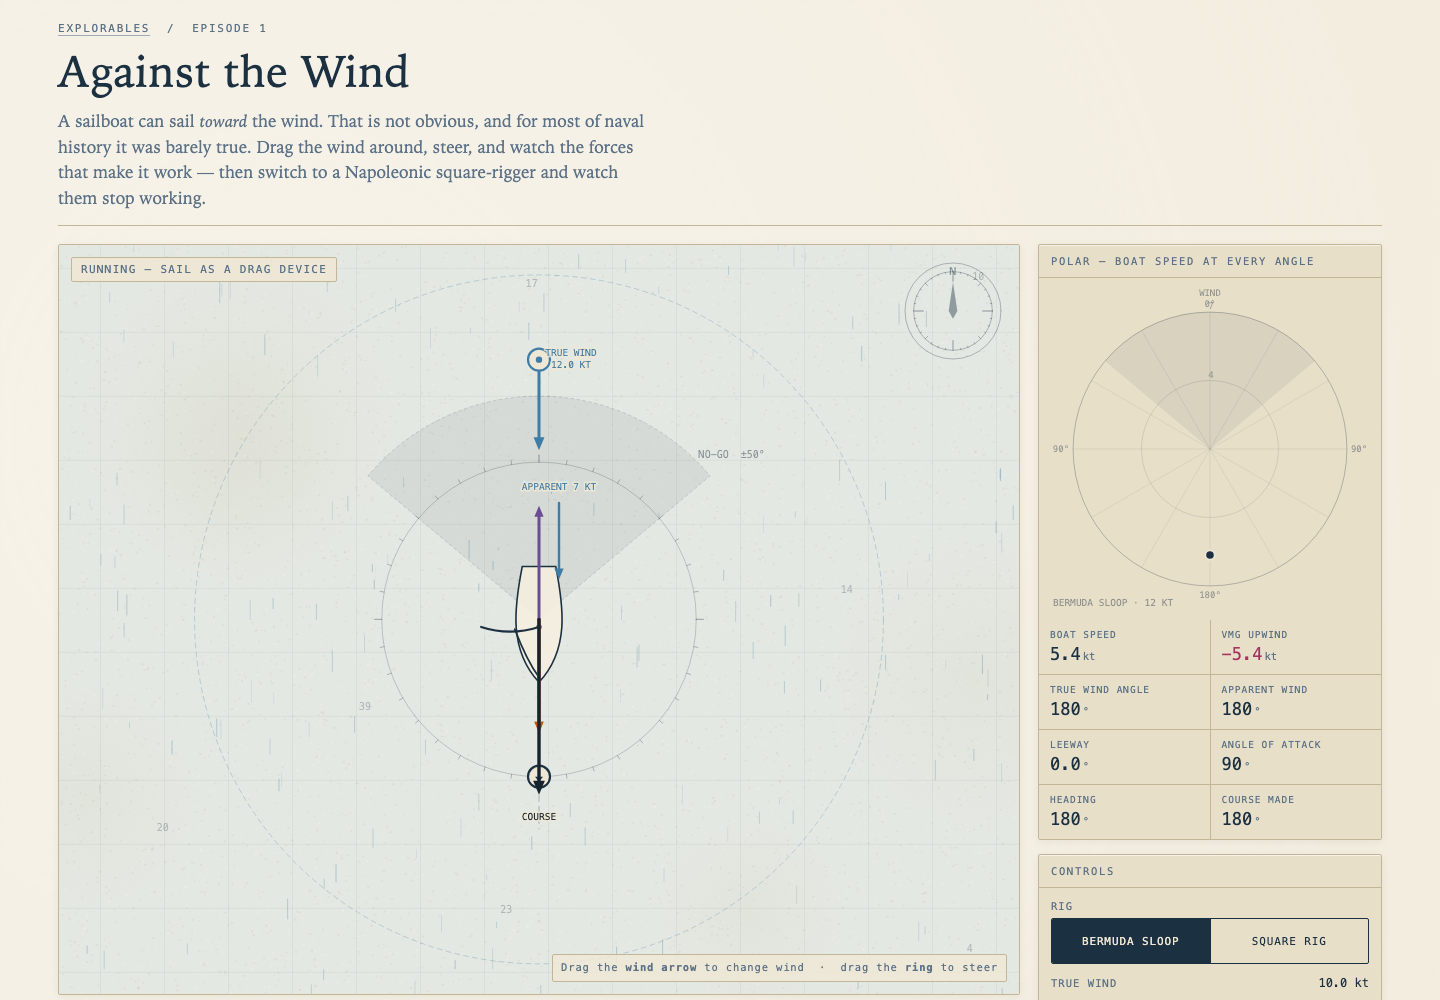
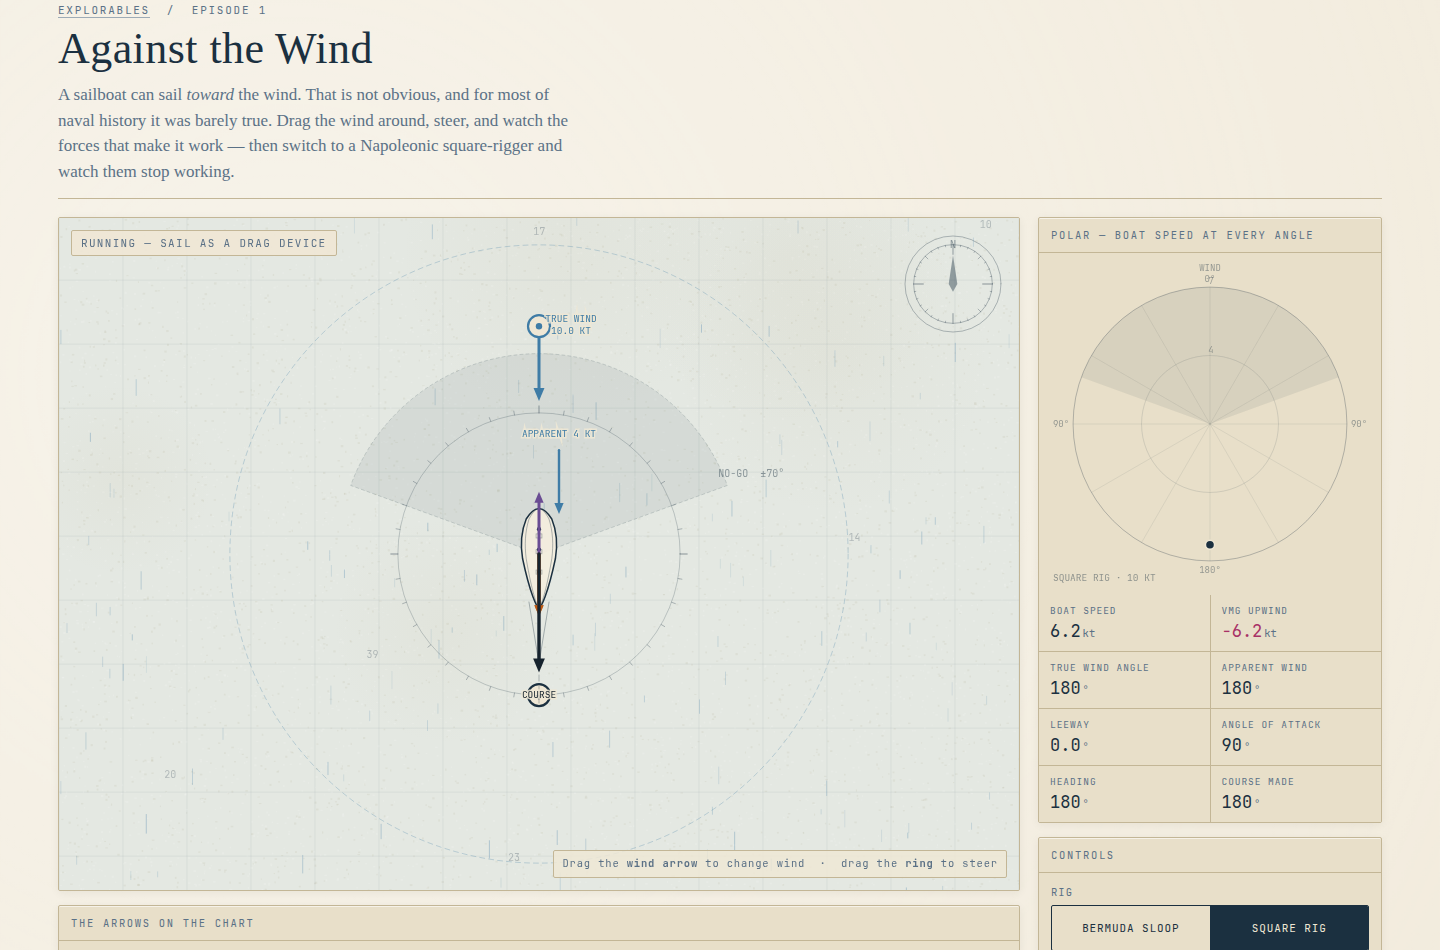
qa: record the 2026-10-18 pass for the frigate hull
Re-shot the three viewports, including the square-rig polar, and note
that stall and luffing now show on the course yards and the state tag.

diff --git a/against-the-wind/qa/README.md b/against-the-wind/qa/README.md
@@ -3,19 +3,42 @@
 Run: `node qa.mjs --shots` (needs Playwright; serve the repo root first, e.g.
 `python3 -m http.server 8777`).
 
-## Last recorded pass — 2026-07-11
+## Episode-specific checks
+
+- Drag the wind.
+- Steer through the no-go zone and confirm in irons. A boat carries her way; wait until she has actually stopped.
+- Toggle the rig and confirm the no-go zone visibly widens.
+- Trace the polar.
+- Turn off auto-trim and stall the sail deliberately.
+- Luff the sail and confirm it is still signalled.
+
+Degeneracies: zero wind, heading spun rapidly, wind slammed between extremes, parameters changed mid-sweep. Nothing may NaN.
+
+Assert the picture in world coordinates, on both tacks. On the square rig the bowsprit is the bow: it points at the heading, and the round end is the stern.
+
+## Last recorded pass — 2026-10-18
+
+`node qa.mjs --shots` against `http://localhost:8777/against-the-wind/`. Exit 0.
 
 | Check | Result |
 |---|---|
-| Self-test (`?selftest=1`) | **19 / 19 assertions green** |
-| Console + page errors | **none**, at every viewport, through every interaction |
-| Viewports | 390 (phone), 768 (tablet), 1440 (desktop) — no horizontal overflow, no clipping |
-| Touch targets | all controls ≥ 44 px |
-| Every control | wind drag, steer through the no-go zone, rig toggle, trace polar, manual-trim stall |
-| Degeneracies | zero wind · heading spun 240× · wind slammed 0.5↔30 kt · parameters changed mid-sweep — **no NaN** |
-| In irons | head to wind → **0.000 kt**, state reports "In irons" |
-| Over-sheet stall | beam reach 3.51 kt → 2.60 kt over-sheeted, state reports "Stalled — ease the sheet" |
-| Running downwind | 5.42 kt, boom out at 90°, state "Running — sail as a drag device" |
+| Self-test (`?selftest=1`) | **Pass.** 19 / 19, including A18 (24 wind/heading combinations, both tacks, world coordinates) |
+| Console + page errors | **Pass.** none, at every viewport, through every interaction |
+| Viewports | **Pass.** phone 390×844, tablet 768×1024, desktop 1440×950. No horizontal overflow |
+| Touch targets | **Pass.** harness flagged nothing under 24 px; buttons and sliders are drawn at 44 px |
+| Wind drag | **Pass.** handle dragged from north to east; wind went to 90° at 30 kt |
+| Rig toggle + polar | **Pass.** square rig traced at all three viewports (`*-square-traced.png`). No-go widened to ±69° |
+| In irons | **Pass.** head to wind → 0.000 kt, state "In irons" |
+| Over-sheet stall | **Pass.** beam reach 3.51 kt → 2.60 kt, state "Stalled — ease the sheet" |
+| Luffing | **Pass.** tag "Luffing — sheet in" held across two frames; the course yards fluttered (magenta centroid shifted about 11 px) |
+| Running downwind | **Pass.** A16: square rig δ = 90° at 6.18 kt. State "Running — sail as a drag device" |
+| Degeneracies | **Pass.** zero wind, heading spun 240×, wind slammed 0.5↔30 kt, parameters changed mid-sweep. No NaN |
+| Bow forward, both tacks | **Pass.** wind from north, headings 40° and 320°. Bowsprit extent forward of centre 153 px, stern 45 px aft, tip within 2 px of the centreline |
+
+The frigate redraw replaced the curved sail belly with straight yards. A luffing sail no longer eases its camber into a curve. What still signals:
+
+- **Stall.** The alarm tag, and the course yard on each mast turns magenta. The topsail yards stay ink.
+- **Luffing.** The alarm tag "Luffing — sheet in", the same magenta course yards, and a small flutter of the yards. There is no separate curved luffing shape.
 
 The in-irons check is deliberately slow: a boat carries her way for a long time
 after the sails stop pulling, which is exactly why irons was dangerous. An early
